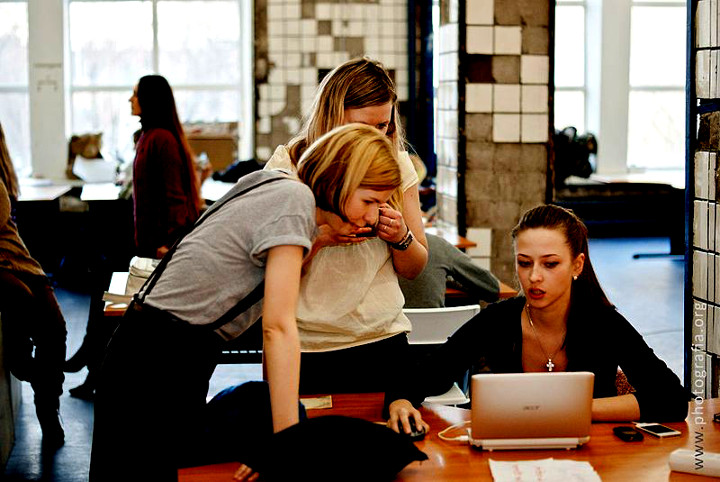
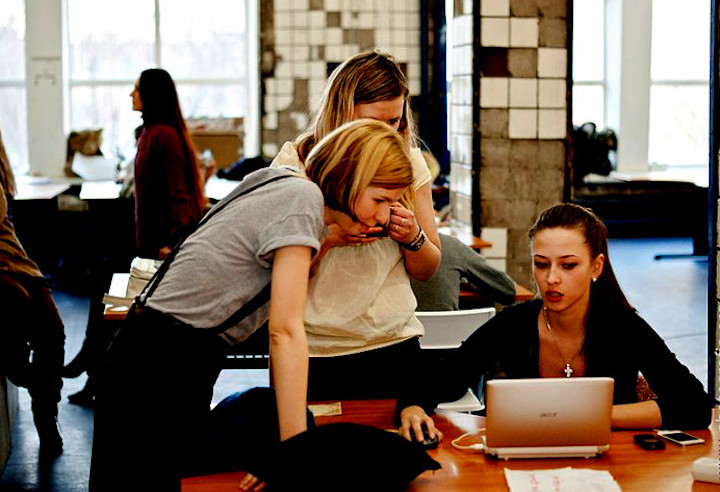
fix placement of report and remove spam url on image

diff --git a/client/views/projects/templates/projectView.html b/client/views/projects/templates/projectView.html
@@ -291,7 +291,7 @@
                     <div class="id-widget-wrap nofloat">
                         <div class="id-widget id-full">
                             <div class="id-product-infobox">
-                                <div class="panel clearfix" style="padding-top:10px!important">
+                                <div class="panel clearfix" style="padding-top:10px!important;padding-bottom:10px!important;">
                                     <div class="product-wrapper clearfix">
                                         <div class="clearing"></div>
                                         <div class="rholder">
@@ -349,7 +349,7 @@
                                     {{/if}}
 
 
-                                    <div class="id-product-proposed-end" style="margin-left:10px;">Created
+                                    <div class="id-product-proposed-end" style="margin-left:10px;margin-top:5px!important;">Created
                                         <div class="id-widget-date">
                                             <div class="id-widget-month">{{project.createdAt}}</div>
                                         </div>
@@ -382,6 +382,13 @@
                                         </div>
 
                                     </div>
+                                </div>
+                                <div class="id-widget-wrap nofloat">
+                                  <div class="id-widget id-full">
+                                      <div class="id-product-infobox">
+                                        <span class="btn btn-default" id="reportthis"><i class="glyphicon glyphicon-flag"></i> REPORT THIS CONTENT</span>
+                                      </div>
+                                  </div>
                                 </div>
                                 <!-- GIFTS -->
                                 <div class="id-product-levels">
@@ -446,13 +453,6 @@
                         <!-- end id-widget -->
                     </div>
                     {{/unless}}
-                    <div class="id-widget-wrap nofloat">
-                      <div class="id-widget id-full">
-                          <div class="id-product-infobox" style="padding-bottom: 20px;">
-                            <span class="btn btn-default" id="reportthis"><i class="glyphicon glyphicon-flag"></i> REPORT THIS CONTENT</span>
-                          </div>
-                      </div>
-                    </div>
                     <div class="poweredbyID"><span><a href="https://opensourcehollywood.org" title="Crowdfunding and Crowdsourcing by Open Source Hollywood">Powered By Open Source Hollywood</a></span></div>
                 </aside>
                 

diff --git a/client/views/main/templates/profile/profile.html b/client/views/main/templates/profile/profile.html
@@ -140,7 +140,7 @@
                             <p>&nbsp;</p>
                             <div class="id-widget-wrap nofloat">
 		                      <div class="id-widget id-full">
-		                          <div class="id-product-infobox" style="margin-top: 60px;">
+		                          <div class="id-product-infobox">
 		                            <span class="btn btn-default" id="reportthis"><i class="glyphicon glyphicon-flag"></i> REPORT THIS CONTENT</span>
 		                          </div>
 		                      </div>
